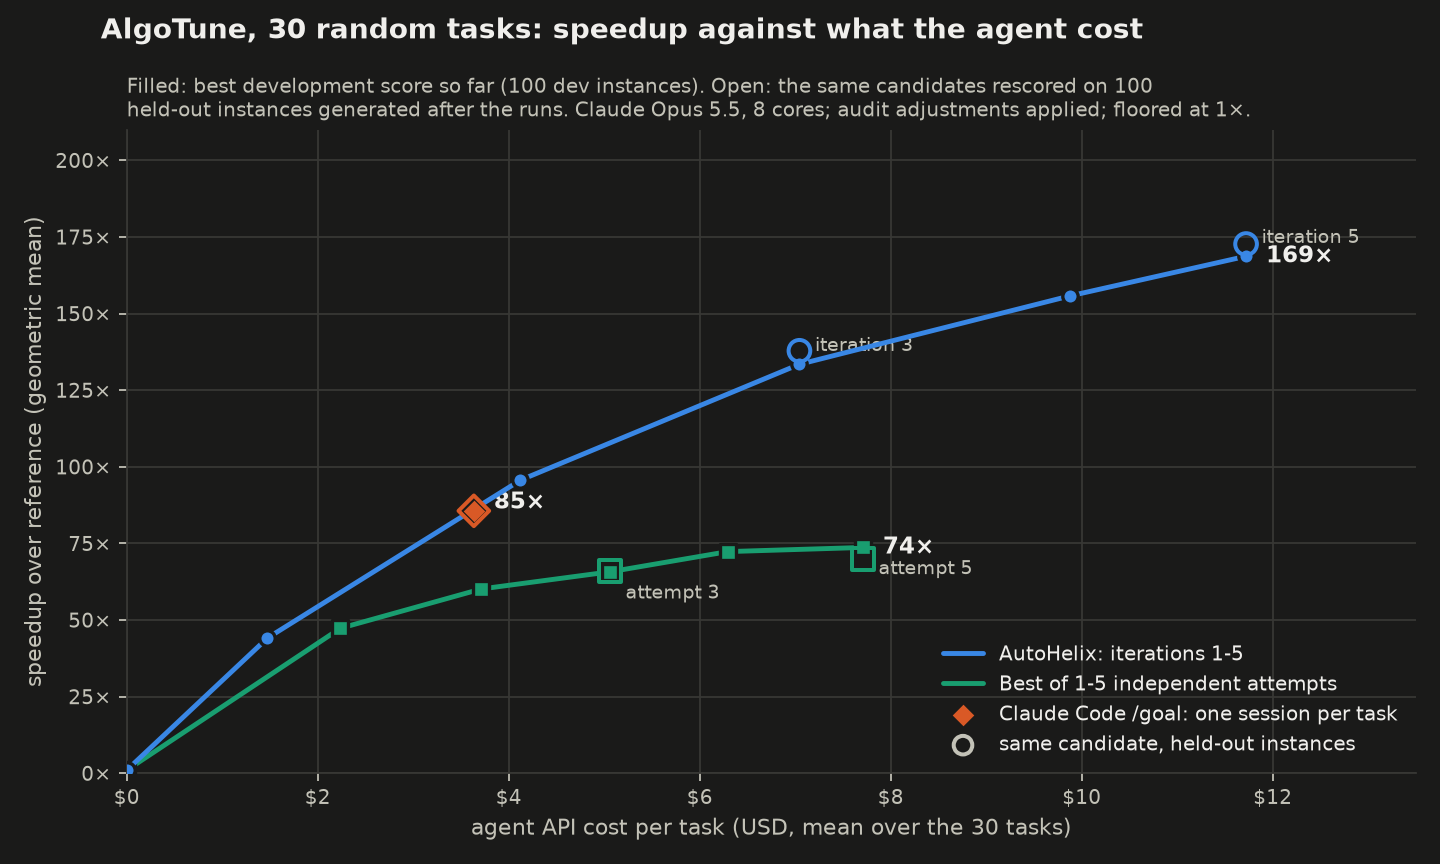
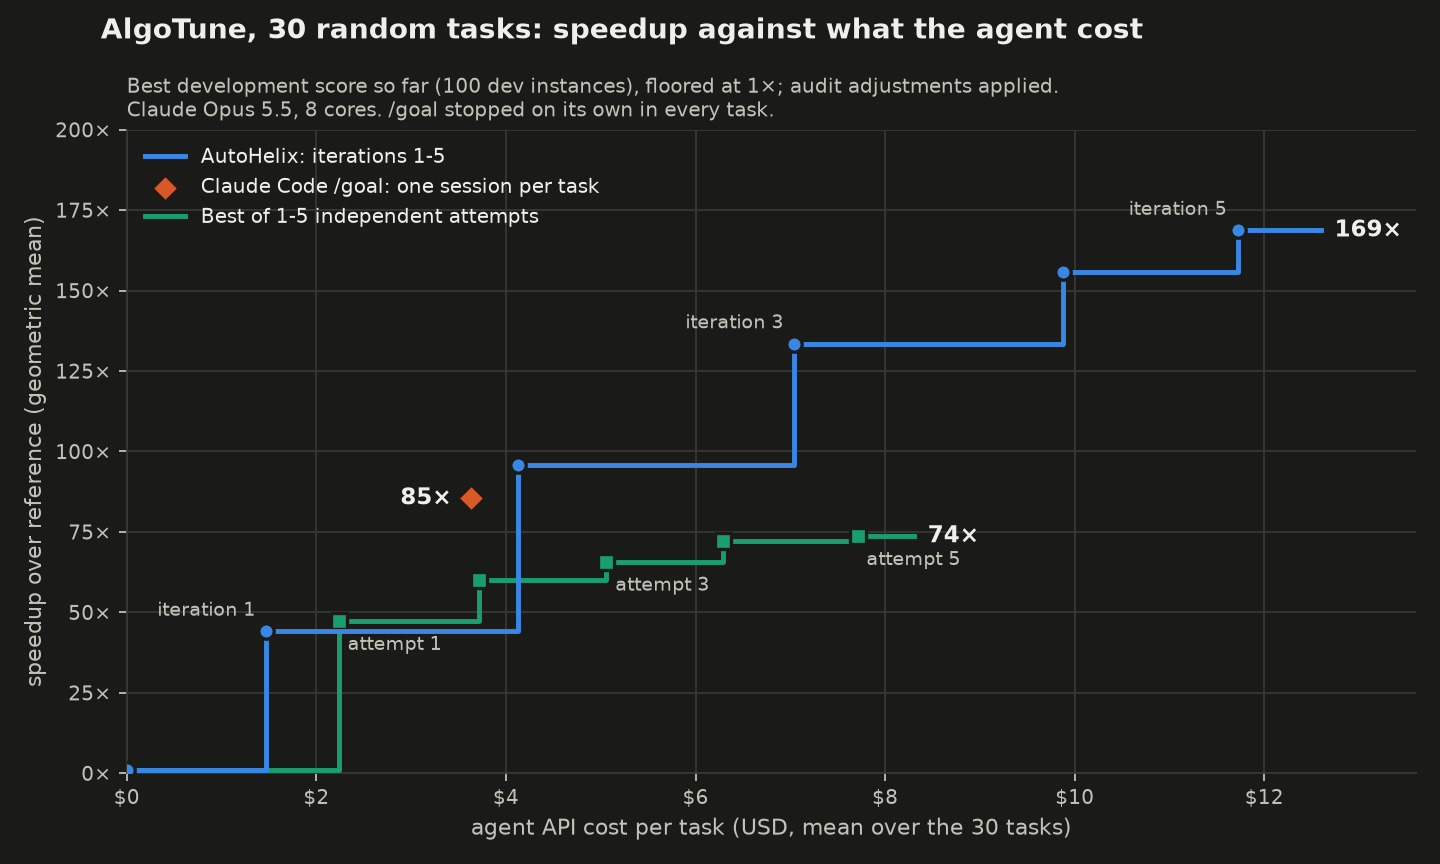
AlgoTune progress figure: ladder steps, no held-out markers or bands

diff --git a/results/algotune/make_plot.py b/results/algotune/make_plot.py
@@ -99,56 +99,49 @@ def draw_progress(theme):
     n = len(TASKS)
     steps = [dev_steps(task) for task in TASKS]
     costs = [step_costs(task) for task in TASKS]
-    curves = []
-    for arm, (name, color, marker, z) in enumerate((("AutoHelix: iterations 1-5", blue, "o", 4),
-                                                    ("Best of 1-5 independent attempts", aqua, "s", 3))):
-        xs = [sum(c[arm][k] for c in costs) / n for k in range(6)]
-        ys = [statistics.geometric_mean([s[arm][k] for s in steps]) for k in range(6)]
-        curves.append((name, color, marker, z, xs, ys))
-    goal_x = sum(subset[task]["goal"]["cost_usd"] for task in TASKS) / n
-    goal_dev = statistics.geometric_mean([max(subset[task]["goal"].get("dev_rescored") or 1.0, 1.0)
-                                          for task in TASKS])
     fig, ax = plt.subplots(figsize=(9, 5.4), dpi=160)
     fig.patch.set_facecolor(t["surface"])
     style(ax, t)
-    for name, color, marker, z, xs, ys in curves:
-        ax.plot(xs, ys, color=color, linewidth=2.2, zorder=z, label=name, solid_capstyle="round")
+    end = 12.6
+    for arm, (name, color, marker, z) in enumerate((("Best of 1-5 independent attempts", aqua, "s", 3),
+                                                    ("AutoHelix: iterations 1-5", blue, "o", 4))):
+        arm = 1 - arm  # steps/costs hold AutoHelix first, best-of second
+        xs = [sum(c[arm][k] for c in costs) / n for k in range(6)]
+        ys = [statistics.geometric_mean([s[arm][k] for s in steps]) for k in range(6)]
+        edge = xs + [end if arm == 0 else xs[-1] + 0.6]
+        ax.step(edge, ys + [ys[-1]], where="post", color=color, linewidth=2.2, zorder=z, label=name)
         ax.scatter(xs, ys, s=48, marker=marker, color=color, edgecolors=t["surface"], linewidths=1.5,
                    zorder=z + 0.5)
-    ax.scatter([goal_x], [goal_dev], s=70, marker="D", color=orange, edgecolors=t["surface"],
-               linewidths=1.5, zorder=5, label="Claude Code /goal: one session per task")
-    for (name, color, marker, z, xs, ys), arm in zip(curves, ("autohelix", "best")):
-        for k in (3, 5):
-            ax.annotate(f"{'iteration' if arm == 'autohelix' else 'attempt'} {k}", xy=(xs[k], ys[k]),
-                        xytext=(7, -12 if arm == "best" else 6), textcoords="offset points",
+        word = "iteration" if arm == 0 else "attempt"
+        for k in (1, 3, 5):
+            ax.annotate(f"{word} {k}", xy=(xs[k], ys[k]), xytext=(-5, 7) if arm == 0 else (4, -13),
+                        ha="right" if arm == 0 else "left", textcoords="offset points",
                         color=t["muted"], fontsize=8.5)
-    held = [(curves[0][4][k], statistics.geometric_mean([speedup(task, f"autohelix@{k}") for task in TASKS]),
-             blue, "o") for k in (3, 5)]
-    held += [(curves[1][4][k], statistics.geometric_mean([speedup(task, f"best@{k}") for task in TASKS]),
-              aqua, "s") for k in (3, 5)]
-    held.append((goal_x, statistics.geometric_mean([speedup(task, "goal") for task in TASKS]), orange, "D"))
-    for x, y, color, marker in held:
-        ax.scatter([x], [y], s=95, marker=marker, facecolors="none", edgecolors=color, linewidths=1.8,
-                   zorder=6)
-    ax.scatter([], [], s=70, marker="o", facecolors="none", edgecolors=t["muted"], linewidths=1.8,
-               label="same candidate, held-out instances")
-    for name, color, marker, z, xs, ys in curves:
-        ax.annotate(f"{ys[-1]:.0f}×", xy=(xs[-1], ys[-1]), xytext=(9, 0), textcoords="offset points",
+        ax.annotate(f"{ys[-1]:.0f}×", xy=(edge[-1], ys[-1]), xytext=(6, 0), textcoords="offset points",
                     va="center", color=t["text"], fontsize=10.5, fontweight="bold")
-    ax.annotate(f"{goal_dev:.0f}×", xy=(goal_x, goal_dev), xytext=(9, 4), textcoords="offset points",
-                va="center", color=t["text"], fontsize=10.5, fontweight="bold")
-    ax.set_xlim(0, 13.5)
-    ax.set_ylim(0, 210)
+    goal_x = sum(subset[task]["goal"]["cost_usd"] for task in TASKS) / n
+    goal = [max(subset[task]["goal"].get("dev_rescored") or 1.0, 1.0) for task in TASKS]
+    goal_y = statistics.geometric_mean(goal)
+    ax.scatter([goal_x], [goal_y], s=75, marker="D", color=orange, edgecolors=t["surface"],
+               linewidths=1.5, zorder=6, label="Claude Code /goal: one session per task")
+    ax.annotate(f"{goal_y:.0f}×", xy=(goal_x, goal_y), xytext=(-9, 0), textcoords="offset points",
+                ha="right", va="center", color=t["text"], fontsize=10.5, fontweight="bold")
+    ax.set_xlim(0, 13.6)
+    ax.set_ylim(0, 200)
     ax.xaxis.set_major_formatter(lambda v, _: f"${v:.0f}")
     ax.yaxis.set_major_formatter(lambda v, _: f"{v:.0f}×")
-    ax.set_xlabel("agent API cost per task (USD, mean over the 30 tasks)", color=t["muted"], fontsize=10)
+    ax.set_xlabel(f"agent API cost per task (USD, mean over the {n} tasks)", color=t["muted"], fontsize=10)
     ax.set_ylabel("speedup over reference (geometric mean)", color=t["muted"], fontsize=10)
-    ax.legend(loc="lower right", frameon=False, fontsize=9, labelcolor=t["text"])
+    handles, labels = ax.get_legend_handles_labels()
+    order = [labels.index(name) for name in ("AutoHelix: iterations 1-5",
+             "Claude Code /goal: one session per task", "Best of 1-5 independent attempts")]
+    ax.legend([handles[i] for i in order], [labels[i] for i in order], loc="upper left",
+              frameon=False, fontsize=9, labelcolor=t["text"])
     fig.suptitle(f"AlgoTune, {n} random tasks: speedup against what the agent cost",
                  x=0.07, ha="left", color=t["text"], fontsize=12.5, fontweight="bold")
-    ax.set_title("Filled: best development score so far (100 dev instances). Open: the same candidates "
-                 "rescored on 100\nheld-out instances generated after the runs. Claude Opus 5.5, 8 cores; "
-                 "audit adjustments applied; floored at 1×.", loc="left", color=t["muted"], fontsize=8.8)
+    ax.set_title("Best development score so far (100 dev instances), floored at 1×; audit adjustments "
+                 "applied.\nClaude Opus 5.5, 8 cores. /goal stopped on its own in every task.",
+                 loc="left", color=t["muted"], fontsize=8.8)
     fig.tight_layout()
     path = os.path.join(ASSETS, f"algotune_progress-{theme}.png")
     fig.savefig(path, facecolor=t["surface"])
